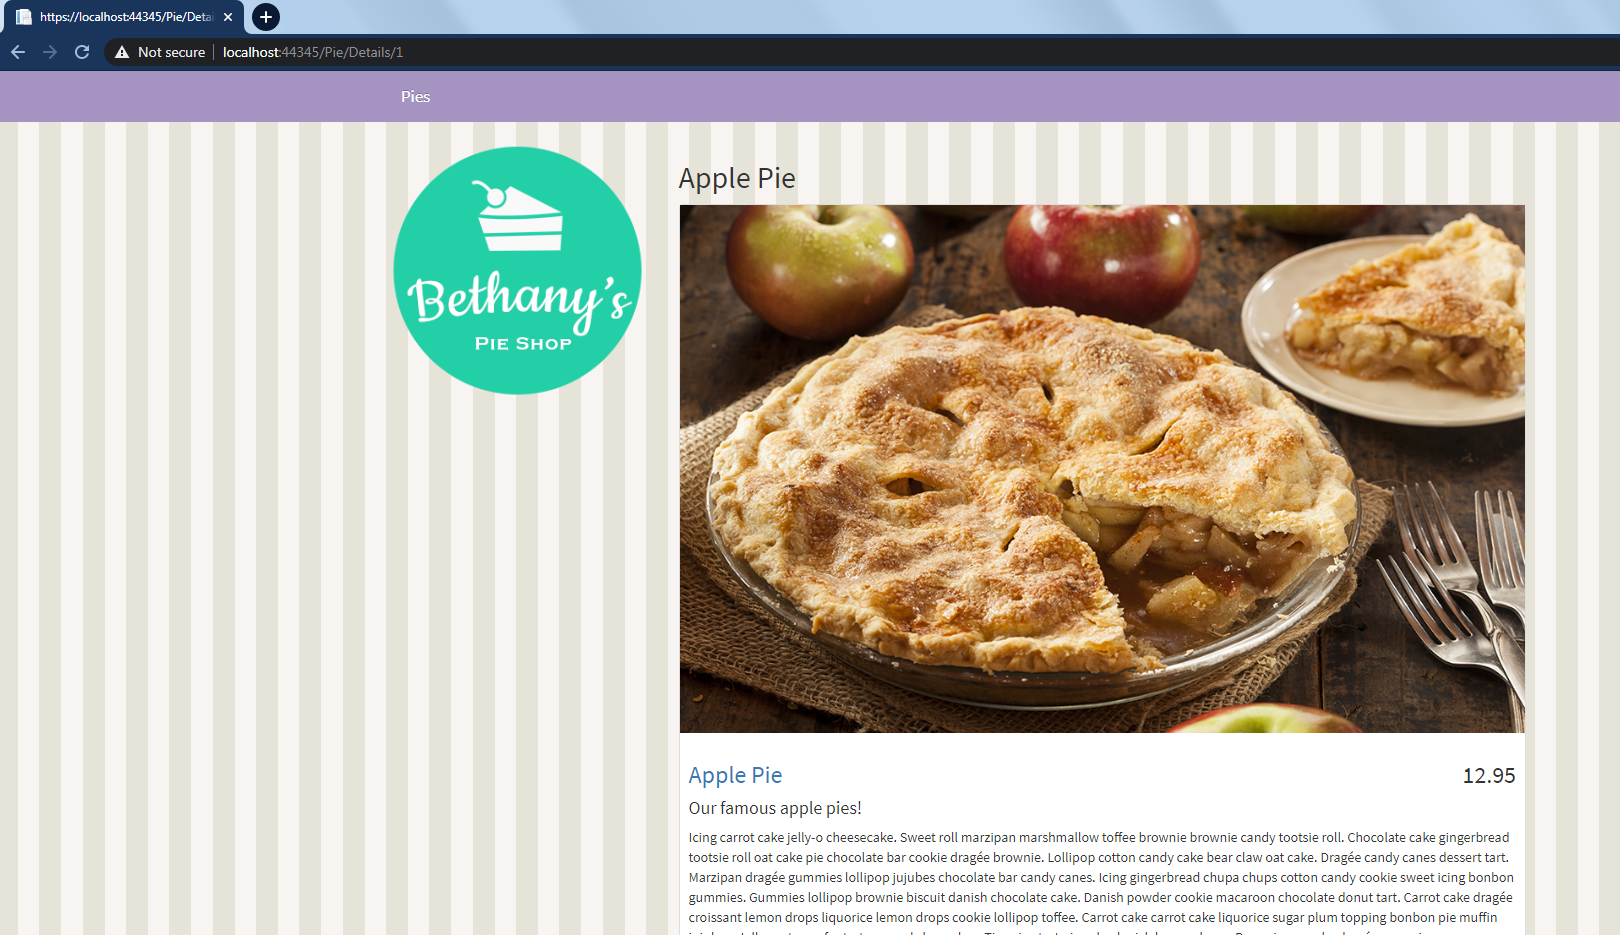
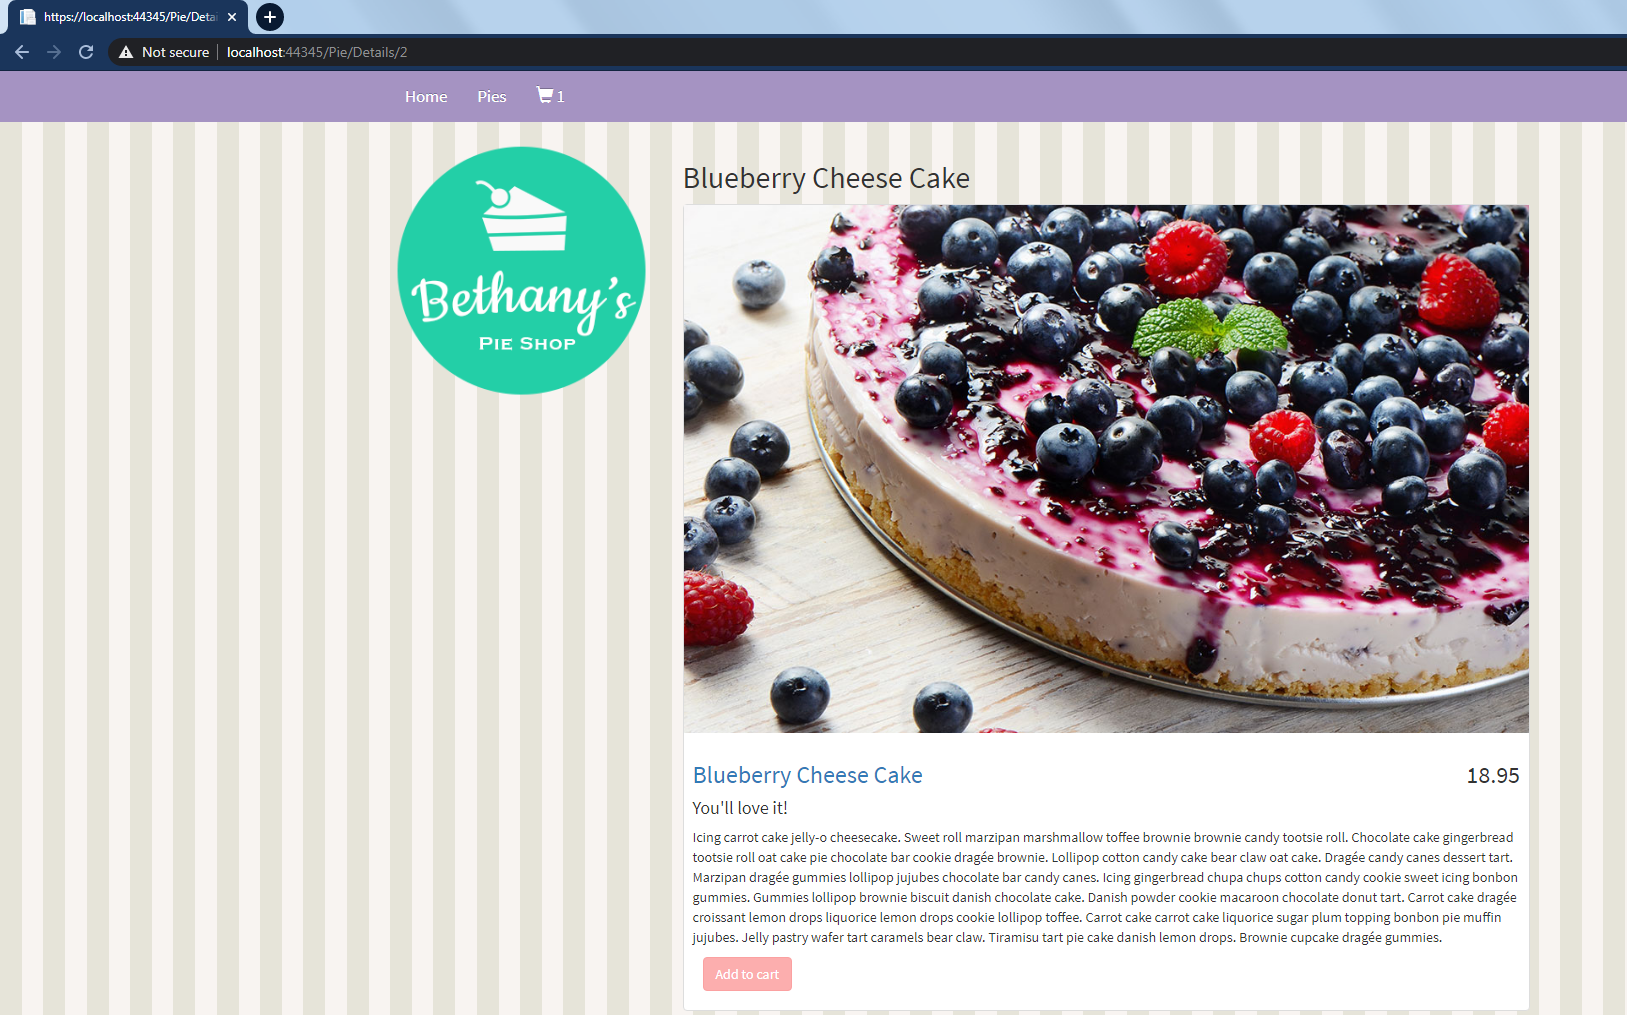
added view component Components/ShoppingCartSummary.cs

diff --git a/02.AspDotNetCoreMvc/BethanysPieShopWebApp/Components/ShoppingCartSummary.cs b/02.AspDotNetCoreMvc/BethanysPieShopWebApp/Components/ShoppingCartSummary.cs
@@ -1,0 +1,46 @@
+using BethanysPieShopWebApp.Models;
+using Microsoft.AspNetCore.Mvc;
+using System;
+using System.Collections.Generic;
+using System.Linq;
+using System.Threading.Tasks;
+
+namespace BethanysPieShopWebApp.Components
+{
+    /// <summary>
+    /// ** Partial views depend on parent view for data & C# logic
+    /// View component has its own data and logic e.g.it can talk to database, use DI
+    /// Shopping cart summary needs DB call to get shopping cart items, hence good candidate
+    /// It is like MINI CONTROLLER
+    /// </summary>
+    public class ShoppingCartSummary: ViewComponent
+    {
+        private readonly ShoppingCart _shoppingCart;
+
+        public ShoppingCartSummary(ShoppingCart shoppingCart)
+        {
+            _shoppingCart = shoppingCart;
+        }
+
+        /// <summary>
+        /// ** this method is called by ASP.NET Core to render view component
+        /// ** notice return type IViewComponentResult
+        /// </summary>
+        /// <returns></returns>
+        public IViewComponentResult Invoke()
+        {
+
+            var items = _shoppingCart.GetShoppingCartItems();
+            _shoppingCart.ShoppingCartItems = items;
+
+            var shoppingCartViewModel = new ShoppingCartViewModel
+            {
+                ShoppingCart = _shoppingCart,
+                ShoppingCartTotal = _shoppingCart.GetShoppingCartTotal()
+
+            };
+            //*** View name needs to be Default.cshtml
+            return View(shoppingCartViewModel);
+        }
+    }
+}

diff --git a/02.AspDotNetCoreMvc/Readme.md b/02.AspDotNetCoreMvc/Readme.md
@@ -9,3 +9,7 @@ List of Pies -
 Pie Details -
 
 ![Alt text](Images/PieDetails.png?raw=true "Pie details")
+
+Shopping Cart -
+
+![Alt text](Images/ShoppingCart.png?raw=true "Shopping Cart")
